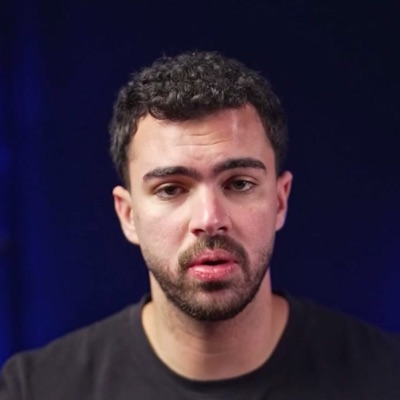
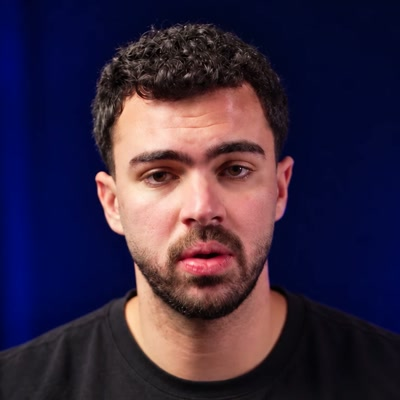
links: Hazem's clean launch photo (his own export of the same shot)
Same «landscape البرمجة» look, without the reel's logo and graphic and
sharper: hero and round face.

diff --git a/src/styles/links.css b/src/styles/links.css
@@ -31,7 +31,7 @@ body:has(.lk) { background: #0b0e1f; }
 .lk-screen { max-width: 460px; margin: 0 auto; }
 
 /* ---------- Landing ---------- */
-.lk-hero { position: relative; margin: 0; aspect-ratio: 960 / 750; overflow: hidden; }
+.lk-hero { position: relative; margin: 0; aspect-ratio: 960 / 766; overflow: hidden; }
 .lk-hero img { width: 100%; height: 100%; object-fit: cover; object-position: 50% 30%; display: block; }
 /* The photo runs into the wall colour, so the name sits on the same wall. */
 .lk-hero::after {

diff --git a/src/components/pages/LinksPage.tsx b/src/components/pages/LinksPage.tsx
@@ -77,7 +77,7 @@ function Home() {
   return (
     <section className="lk-screen lk-home">
       <figure className="lk-hero">
-        <img src="/images/links/hero-launch.jpg" alt="Hazem Abdelghany" width={960} height={750} />
+        <img src="/images/links/hero-launch.jpg" alt="Hazem Abdelghany" width={960} height={766} />
       </figure>
       <header className="lk-id">
         <h1 className="lk-name">حازم عبدالغني</h1>
